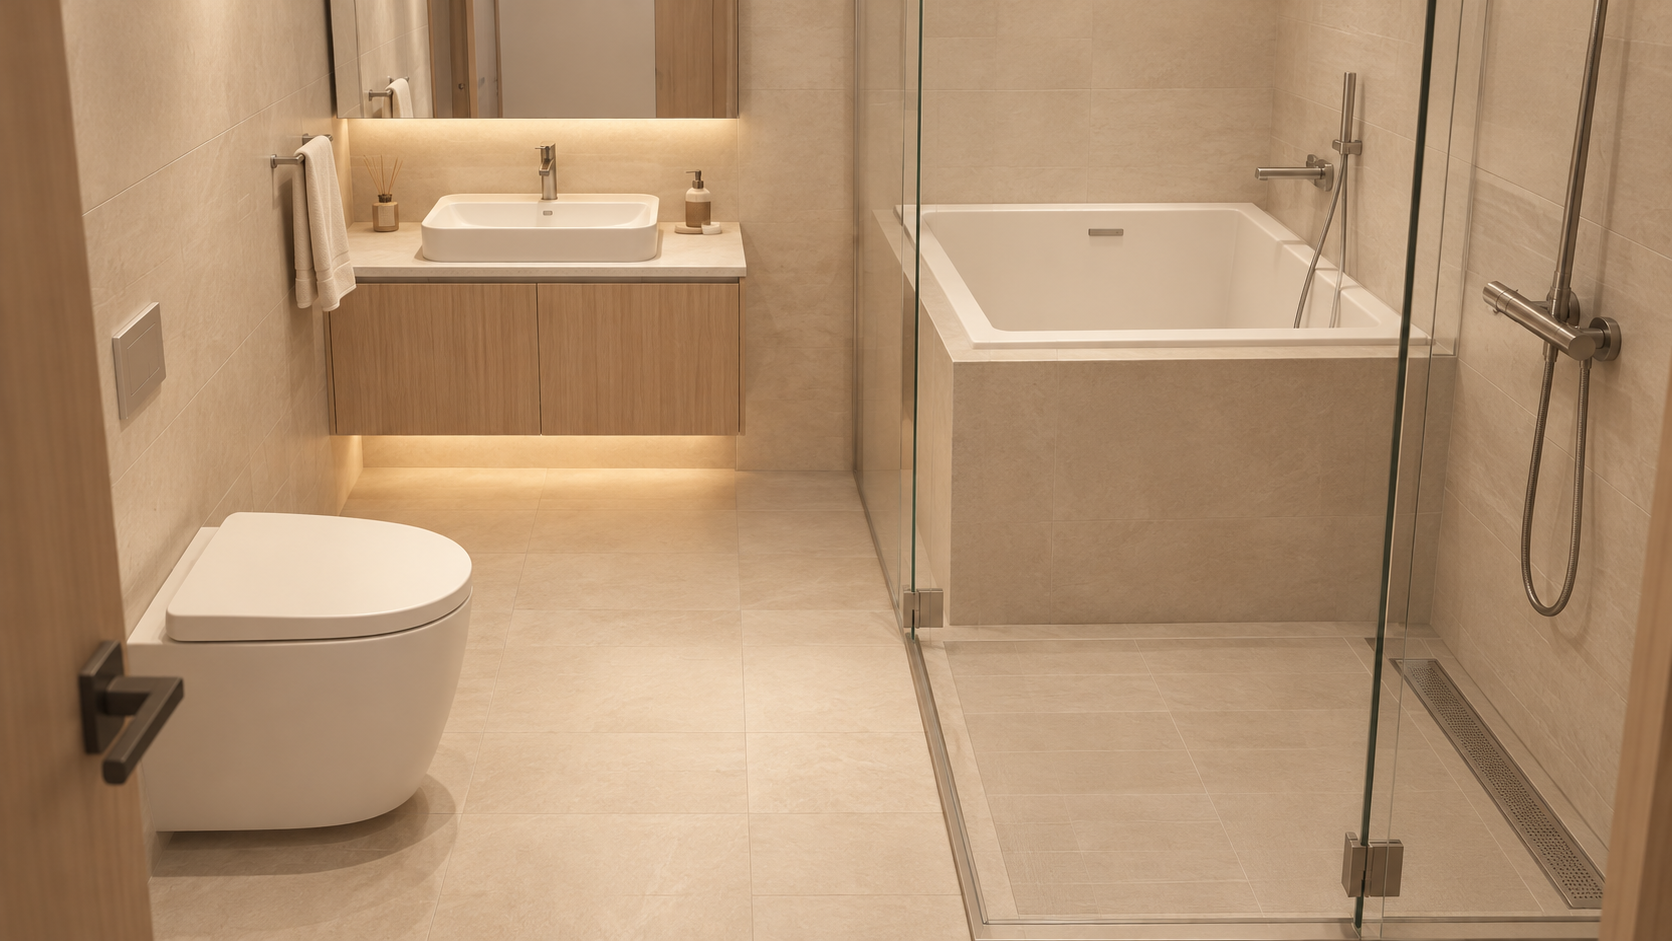
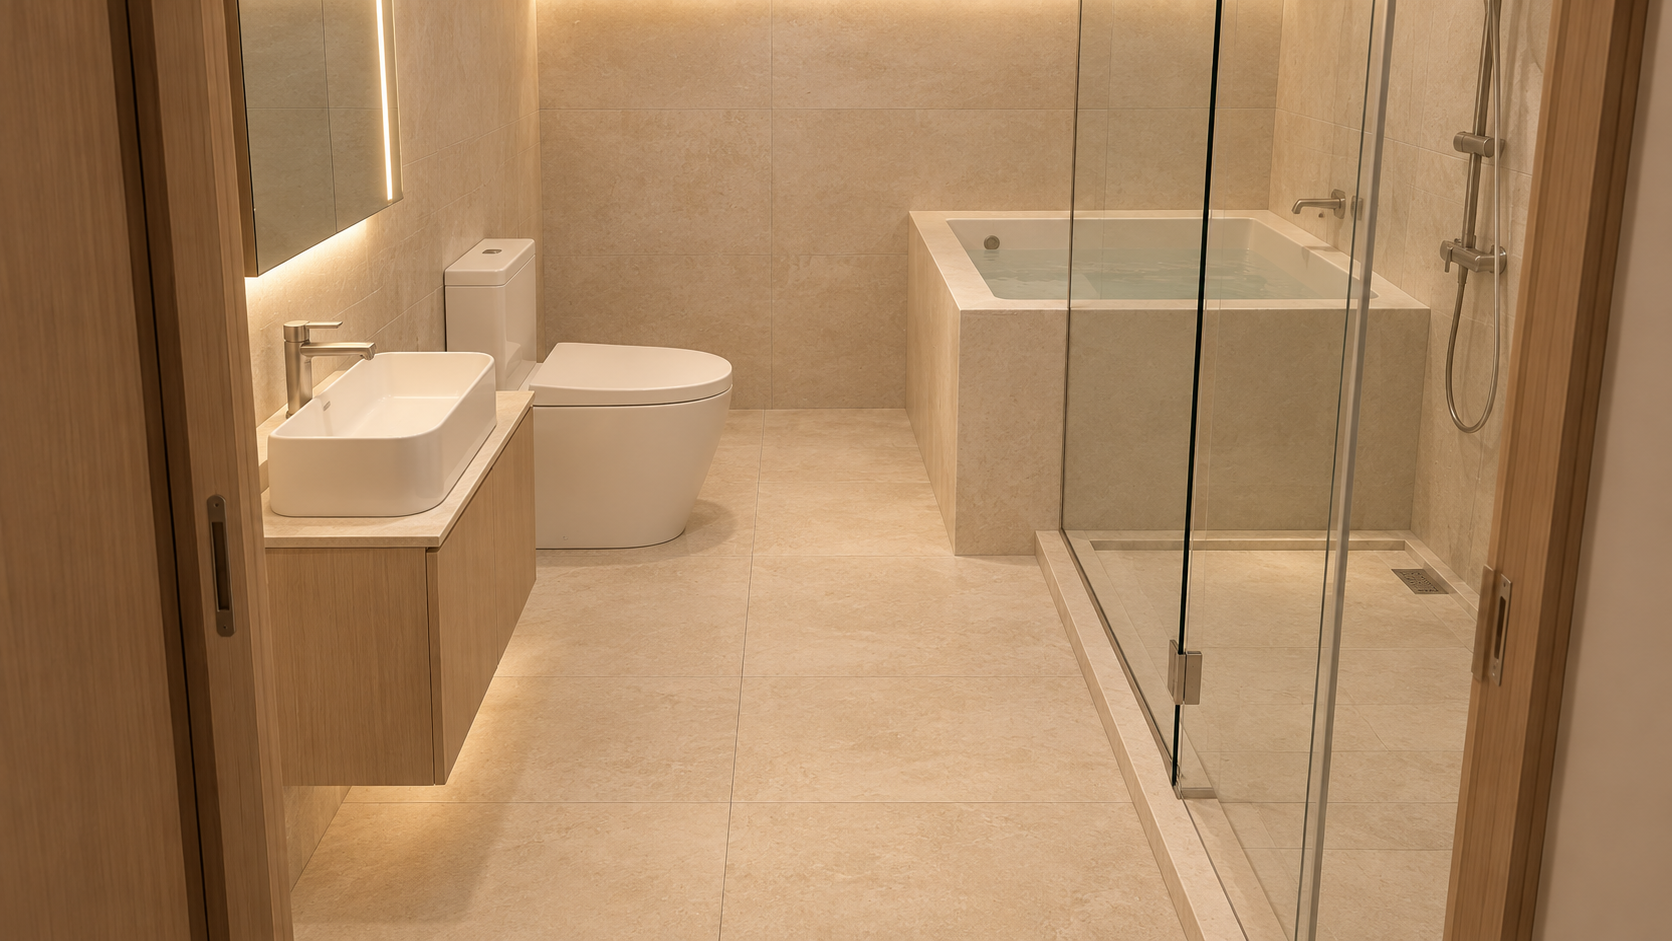
Update kitchen refrigerator and premium room renders

diff --git a/studio.js b/studio.js
@@ -140,7 +140,7 @@ item('高階網布人體工學椅',805,850,66,65,()=>{
   for(const yy of [854,908]){box(823,yy,16,5,4,frame,67);box(828,yy,5,5,15,frame,49);}
   cyl(837,882,5,43,frame,2);for(const [x,y]of [[808,882],[828,852],[858,856],[858,908],[828,912]]){box(Math.min(837,x),Math.min(882,y),Math.abs(x-837)+4,Math.abs(y-882)+4,3,frame,3);cyl(x,y,4,5,dark,0);}
 });
-const designSpecs={style:'warm-japandi-premium',tv:{diagonalInches:77,width:170.4,height:95.9,centerY:863.5},mediaDesk:{width:160,depth:65,wall:'opposite-solid'},chair:{model:'PremiumMesh',width:66,depth:65},living:{sofa:[970,750,90,210],table:[1097,785,72,110],sofaToTable:37,tableToTvWall:51},guestBath:{vanity:[798,318,84,40],toilet:[772,432,66,42],squareTub:[924,310,110,100],shower:[914,420,130,90]},ensuite:{vanity:[241,752,42,62],toilet:[246,837,66,42]},corridorStorage:{nicheDepth:14,nicheWidth:30,cleaningBay:true,livingFace:'closed'}};
+const designSpecs={style:'warm-japandi-premium',tv:{diagonalInches:77,width:170.4,height:95.9,centerY:863.5},mediaDesk:{width:160,depth:65,wall:'opposite-solid'},chair:{model:'PremiumMesh',width:66,depth:65},living:{sofa:[970,750,90,210],table:[1097,785,72,110],sofaToTable:37,tableToTvWall:51},kitchen:{counter:[239,670,235,60],cooktop:[255,680,60,43],sink:[421,700,52,36],fridge:[474,670,72.1,69.5],applianceCabinet:[546.1,670,80,70]},guestBath:{vanity:[772,426,40,84],toilet:[772,318,66,42],vanityFacing:'east',toiletFacing:'east',squareTub:[924,310,110,100],shower:[914,420,130,90]},ensuite:{vanity:[241,752,42,62],toilet:[246,837,66,42]},laundry:{model:'LG WD-S15NDB',sizeCm:[65,95,64.5],rotationDeg:360,rotationSteps:[270,90]},corridorStorage:{nicheDepth:14,nicheWidth:30,cleaningBay:true,livingFace:'closed'}};
 // Shortened to 70 cm so the desk chair has an unobstructed side route.
 item('影音輕量低櫃 70 cm',739,915,30,70,()=>{box(739,915,30,70,60,oak,8);for(const y of [917,951])box(768,y,2,32,54,cream,11);box(739,930,24,40,3,oak,122);cyl(751,940,6,15,cream,125);cyl(753,965,7,15,sage,68)});
 // Cabinet follows the bathroom north wall; door opening x829..909 stays clear.
@@ -178,17 +178,16 @@ function vessel(x,y,w,d,h,z,material){
   const g=new T.BufferGeometry();g.setAttribute('position',new T.Float32BufferAttribute(vertices,3));g.setIndex(indices);g.computeVertexNormals();
   const m=new T.Mesh(g,material);m.material.side=T.DoubleSide;m.position.copy(W(x,y,z));m.castShadow=m.receiveShadow=true;scene.add(m);return m;
 }
-// Guest bathroom: dry fixtures return to their opposite bays, and the toilet faces sideways.
-// Clockwise from the entrance: vanity at upper-left, toilet at lower-left, then a square tub
-// and the separate shower bay on the right, divided by the existing I-BATH glass line.
-item('客用衛浴洗手台／上左',798,318,84,40,()=>{
-  box(798,318,84,40,43,oak,30);box(796,316,88,44,4,ceramic,73);
-  vessel(840,338,52,30,13,77,ceramic);box(863,334,3,3,20,chrome,77);box(851,334,15,3,3,chrome,95);
-  box(798,315,84,1.5,78,mat('#bac5c5',.08,{metalness:.85}),105);
+// Guest bathroom: swap the vanity and toilet, and align both fronts toward the room.
+// Their backs share the left wall; the tub and shower stay on the right.
+item('客用衛浴馬桶／上左面向房間',772,318,66,42,()=>{
+  const base=cyl(805,339,14,28,ceramic,3);base.scale.z=1.2;
+  vessel(805,339,55,42,15,27,ceramic);box(772,318,14,42,65,ceramic,3);box(777,320,6,10,2,chrome,68);
 });
-item('客用衛浴馬桶／下左轉向',772,432,66,42,()=>{
-  const base=cyl(805,453,14,28,ceramic,3);base.scale.z=1.35;
-  vessel(805,453,55,42,15,27,ceramic);box(772,435,14,36,65,ceramic,3);cyl(778,452,2,1,chrome,68);
+item('客用衛浴洗手台／下左面向房間',772,426,40,84,()=>{
+  box(772,426,40,84,43,oak,30);box(770,424,44,88,4,ceramic,73);
+  vessel(792,468,30,52,13,77,ceramic);box(777,464,3,3,18,chrome,79);box(777,464,14,3,3,chrome,95);
+  box(771,426,1.5,84,78,mat('#bac5c5',.08,{metalness:.85}),105);
 });
 item('客用衛浴方形浴缸 110×100',924,310,110,100,()=>{
   vessel(979,360,110,100,55,0,ceramic);cyl(1008,328,3,1,chrome,8);
@@ -235,7 +234,15 @@ const mainDoorHandle=box(1192,500,4,7,24,chrome,104);window.mainDoorHinge.attach
 // Solid oak jambs, head and threshold make the door legible in every view.
 box(1101,501,6,12,242,oak,2);box(1207,501,6,12,242,oak,2);box(1101,501,112,12,6,oak,242);box(1101,501,112,12,4,dark,0);
 });
-item('LG 洗脫烘預留／對面旋轉180度',310,320,75,65,()=>{box(310,320,75,65,85,white);const drum=new T.Mesh(new T.CylinderGeometry(23,23,3,48),black);drum.rotation.x=Math.PI/2;drum.position.copy(W(347.5,387,43));scene.add(drum);box(310,320,75,65,4,oak,90)});
+item('LG WD-S15NDB 洗脫烘／270度再轉90度',315,320.25,65,64.5,()=>{
+  const washer=new T.Group();washer.position.copy(W(347.5,352.5));washer.rotation.y=2*Math.PI;scene.add(washer);
+  const graphite=mat('#30383a',.24,{metalness:.12}),glassDoor=mat('#171d20',.14,{metalness:.22}),display=mat('#a9b8b1',.28,{emissive:0x16201d,emissiveIntensity:.12});
+  const body=new T.Mesh(new T.BoxGeometry(65,95,64.5),graphite);body.position.y=47.5;body.castShadow=body.receiveShadow=true;washer.add(body);
+  const trim=new T.Mesh(new T.TorusGeometry(23,2.5,12,56),mat('#5c6262',.23,{metalness:.55}));trim.position.set(0,47,-32.5);trim.castShadow=true;washer.add(trim);
+  const glassDoorMesh=new T.Mesh(new T.CylinderGeometry(20,20,1.4,48),glassDoor);glassDoorMesh.rotation.x=Math.PI/2;glassDoorMesh.position.set(0,47,-32.2);glassDoorMesh.castShadow=true;washer.add(glassDoorMesh);
+  const control=new T.Mesh(new T.BoxGeometry(29,7,1.5),graphite);control.position.set(0,87,-32);washer.add(control);
+  const screen=new T.Mesh(new T.BoxGeometry(9,3,1),display);screen.position.set(-9,87,-33);washer.add(screen);
+});
 // Balcony guard: slim vertical slats with a continuous top rail.
 item('陽台直條格柵欄',220,300,12,250,()=>{
   const rail=mat('#4a514c',.48,{metalness:.35});
@@ -248,20 +255,20 @@ item('主臥飯店級軟包雙人床／轉向90度',425,890,188,150,()=>{box(425
 item('主臥整牆頂天滑門衣櫥 275 cm',664,765,55,275,()=>{box(664,765,55,275,260,oak);for(let y=767;y<1038;y+=73){box(662,y,2,71,254,oak,3);box(660,y+61,2,2,35,dark,100)}});
 item('次臥飯店級客床 150×188',415,320,150,188,()=>{box(415,320,150,188,12,oak,14);softBox(415,320,150,188,22,linen,24);softBox(415,508,150,10,76,mat('#c2b4a3',.94),16);softBox(430,465,110,35,12,cream,46)});
 item('原圖橫向廚具 235×60',239,670,235,60,()=>{
-  // Cabinet shell and split counter leave an actual recess for the stainless sink.
+  // Keep the existing I-KITCHEN counter while swapping the cooktop and sink bays.
   box(239,670,235,60,7,oak,3);box(239,670,3,60,75,oak,10);box(471,670,3,60,75,oak,10);
   box(239,727,235,3,75,oak,10);
-  for(const [x,w]of [[239,16],[307,167]])box(x,670,w,60,4,cream,85);
-  box(255,670,52,12,4,cream,85);box(255,718,52,12,4,cream,85);
-  vessel(281,700,52,36,20,69,mat('#aeb5b3',.3,{metalness:.8}));
-  const curve=new T.CatmullRomCurve3([W(281,724,89),W(281,724,115),W(281,713,122),W(281,699,114)]);
+  for(const [x,w]of [[239,156],[447,27]])box(x,670,w,60,4,cream,85);
+  box(395,670,52,12,4,cream,85);box(395,718,52,12,4,cream,85);
+  vessel(421,700,52,36,20,69,mat('#aeb5b3',.3,{metalness:.8}));
+  const curve=new T.CatmullRomCurve3([W(421,724,89),W(421,724,115),W(421,713,122),W(421,699,114)]);
   const faucet=new T.Mesh(new T.TubeGeometry(curve,32,1.6,10,false),chrome);faucet.castShadow=true;scene.add(faucet);
-  box(391,680,60,43,2,black,89);for(const x of [404,435])cyl(x,701,9,1,dark,91);
+  box(255,680,60,43,2,black,89);for(const x of [270,300])cyl(x,701,9,1,dark,91);
   for(let x=241;x<470;x+=47){box(x,669,44,2,78,cream,5);box(x+13,667,18,2,1.5,dark,74);}
   box(239,728,235,1,75,cream,90);box(390,714,64,15,9,chrome,186);box(410,718,24,11,65,chrome,195);
 });
-// Panasonic NR-D505XGS: W72.1 × D69.5 × H183.4 cm.  Kept beside the existing counter run.
-item('Panasonic NR-D505XGS 冰箱',474,670,72.1,69.5,()=>{
+// Panasonic NR-D505XGS-W cloud-rock white: W72.1 × D69.5 × H183.4 cm.
+item('Panasonic NR-D505XGS-W 雲岩白四門冰箱',474,670,72.1,69.5,()=>{
   box(474,670,72.1,69.5,183.4,white,2);box(475,668,70.1,2,90,mat('#d8ddd9',.18,{metalness:.18}),4);box(475,668,70.1,2,89,mat('#eef0ea',.18,{metalness:.18}),95);
   box(510,666.5,2,2,179,oak,4);box(475,668,70.1,1,3,oak,92);box(475,668,70.1,1,3,oak,140);box(475,668,70.1,1,3,oak,175);
 });
@@ -281,8 +288,8 @@ configs.media.text='160 × 65 cm升降桌移到對面實牆，椅子面向桌面
 configs.entry.target=[935,560];configs.entry.yaw=.15;configs.entry.pitch=.4;configs.entry.text='隱藏門兩側為完整櫃體：浴室走道側保留 14 cm 淺挖備品格，並整合掃把／拖把的直立收納；面向客廳的立面則是平整封閉櫃門，沒有開孔。右側下方保留掃地機器人高度，上方為置物與封閉收納。隱藏門與櫃體切平、往廁所內開。';
 configs.master={target:[555,900],radius:590,yaw:.5,pitch:.8,title:'床尾整牆衣櫥，頂天收納',sub:'主臥 / 約275 × 55 × 260 cm',text:'維持床頭朝左、150 × 188 cm雙人床。床尾右側牆做 275 cm 長木質滑門衣櫥，延伸至天花板，入口門洞保留；原入口側櫃體移除。床尾至門面約49 cm，偏窄，須現場確認與調整後才能施工；260 cm高度為模型暫定值。'};
 configs.guest={target:[580,430],radius:570,yaw:.7,pitch:.85,title:'清空次臥櫃體，保留彈性',sub:'次臥 / 只保留客床與完整動線',text:'移除原本的衣櫃、書桌與零散櫃體，留下150×188 cm客床及完整門口動線。後續可依實際需求再放入活動式家具，不先以固定櫃體壓縮空間。'};
-configs.laundry.text='LG 15 kg洗脫烘已移到原位置對面並旋轉180度，門面朝室內；仍須確認給排水、插座、散熱與維修空間。';
-configs.kitchen={target:[470,690],radius:620,yaw:-.7,pitch:.7,title:'橫向廚具＋冰箱與頂天電器櫃',sub:'NR-D505XGS / 72.1 × 69.5 × 183.4 cm',text:'保留原圖I-KITCHEN的235 × 60 cm橫向檯面；右端接Panasonic NR-D505XGS冰箱，再接80 cm寬、70 cm深頂天電器櫃，設微波／蒸烤設備凹槽與上方封閉收納。冰箱散熱、插座、門片全開與通道尺寸仍須以現場及原廠安裝圖複核。'};
+configs.laundry.text='LG WD-S15NDB 15公斤洗脫烘（65 × 64.5 × 95 cm）放在既有陽台位置，依270度後再轉90度設定為360度；門面朝室內。現場仍需確認開門深度、給排水與插座。';
+configs.kitchen={target:[470,690],radius:620,yaw:-.7,pitch:.7,title:'橫向廚具＋冰箱與頂天電器櫃',sub:'235 × 60 cm 檯面 / Panasonic NR-D505XGS-W 雲岩白',text:'保留原圖 I-KITCHEN 235 × 60 cm 橫向檯面，瓦斯爐改在左端、水槽移到右端，接續 Panasonic NR-D505XGS-W 雲岩白四門冰箱（72.1 × 69.5 × 183.4 cm）與 80 × 70 cm 頂天電器櫃；爐、水槽、冰箱依同一檯面動線排列。冰箱散熱、插座、門片全開與通道尺寸仍須以現場及原廠安裝圖複核。'};
 for(const [name,label]of [['master','06　主臥'],['guest','07　次臥'],['kitchen','08　廚房']]){const b=document.createElement('button');b.dataset.room=name;b.textContent=label;document.querySelector('.rooms').append(b)}
 let selected='all',yaw=.6,pitch=.8,radius=1650,target=W(750,690,30);function select(name){selected=name;const c=configs[name];yaw=c.yaw;pitch=c.pitch;radius=c.radius;target=W(...c.target,35);document.querySelector('#title').textContent=c.title;document.querySelector('#description').textContent=c.text;document.querySelector('#subtitle').textContent=c.sub;document.querySelector('#viewname').textContent=c.title;document.querySelectorAll('[data-room]').forEach(b=>b.classList.toggle('active',b.dataset.room===name))}document.querySelectorAll('[data-room]').forEach(b=>b.onclick=()=>select(b.dataset.room));document.querySelector('#reset').onclick=()=>select(selected);
 let walking=false,compare=false,walkX=1150,walkY=600,walkYaw=0,lookPitch=0,drag=null;

diff --git a/studio-home.js b/studio-home.js
@@ -14,7 +14,7 @@
   const roomPicker=document.createElement('select');roomPicker.className='room-picker';roomPicker.setAttribute('aria-label','前往房間');
   document.querySelector('.workspace').insertBefore(roomPicker,controls);
   // Add a direct bathroom stop and keep all room choices available on small screens.
-  configs.bath={target:[887,433],radius:420,yaw:.7,pitch:.7,title:'客用四件式衛浴',sub:'洗手台・馬桶・方形浴缸・乾濕分離',text:'乾區已再次互換：上左為洗手台、下左為馬桶；馬桶轉向側牆。右上保留 110 × 100 cm 方形浴缸，右下為獨立淋浴區。玻璃線沿 I-BATH 分隔，尺寸仍須現場放樣複核。'};
+  configs.bath={target:[887,433],radius:420,yaw:.7,pitch:.7,title:'客用四件式衛浴',sub:'洗手台・馬桶・方形浴缸・乾濕分離',text:'洗手台與馬桶已交換：上左為馬桶、下左為洗手台，兩者都朝向房間中央；右上保留 110 × 100 cm 方形浴缸，右下為獨立淋浴區。玻璃線沿 I-BATH 分隔，尺寸仍須現場放樣複核。'};
   configs.ensuite={target:[310,855],radius:310,yaw:-1.9,pitch:.85,title:'主臥衛浴',sub:'洗手台・馬桶・淋浴・高窗',text:'入口側為洗手台、淋浴前為馬桶；馬桶已轉向側牆。左側外牆補上與次臥同比例的 150 cm 窗台高窗，並重建窗洞下牆、過梁、窗框與玻璃；保留末端乾濕分離淋浴區。尺寸為設計示意。'};stops.ensuite=[339,825,Math.PI];
   stops.bath=[880,470,-2.92];stops.living=[1175,718,-.37];stops.master=[639,825,-.75];stops.media=[760,805,.88];stops.kitchen=[490,604,-.92];stops.laundry=[292,478,2.85];
   const bathButton=document.createElement('button');bathButton.dataset.room='bath';bathButton.textContent='09　浴室';bathButton.onclick=()=>{select('bath');if(walking){[walkX,walkY,walkYaw]=stops.bath;lookPitch=-.48;}};document.querySelector('.rooms').append(bathButton);
@@ -112,11 +112,11 @@
   const capture=document.createElement('button');capture.textContent='儲存 3D 視角';capture.title='將目前即時渲染儲存為 PNG';capture.onclick=()=>{const link=document.createElement('a');link.download=`B1-${selected}-3d-render.png`;link.href=canvas.toDataURL('image/png');link.click();};document.querySelector('.toolbar').append(capture);
   // Curated photoreal render gallery: these are high-detail design views, while
   // the canvas above remains the measured interactive model.
-  const premiumRenders={living:['客廳','renders/living-premium.png'],kitchen:['餐廚','renders/kitchen-premium.png?v=20261024-layout2'],master:['主臥','renders/master-premium.png?v=20261024-layout2'],media:['多功能室','renders/media-premium.png?v=20261024-layout2'],guest:['次臥','renders/guest-premium.png?v=20261024-layout2'],bath:['客用衛浴','renders/bath-premium.png?v=20261024-layout2'],ensuite:['主臥衛浴','renders/ensuite-premium.png?v=20261024-layout2'],entry:['玄關','renders/entry-premium.png?v=20261024-layout2'],laundry:['洗衣陽台','renders/laundry-premium.png?v=20261024-layout2']};
+  const premiumRenders={living:['客廳','renders/living-premium.png'],kitchen:['餐廚','renders/kitchen-premium.png?v=20261024-layout4'],master:['主臥','renders/master-premium.png?v=20261024-layout2'],media:['多功能室','renders/media-premium.png?v=20261024-layout2'],guest:['次臥','renders/guest-premium.png?v=20261024-layout2'],bath:['客用衛浴','renders/bath-premium.png?v=20261024-layout3'],ensuite:['主臥衛浴','renders/ensuite-premium.png?v=20261024-layout2'],laundry:['洗衣陽台','renders/laundry-premium.png?v=20261024-layout3']};
   const gallery=document.createElement('section');gallery.className='render-gallery';gallery.innerHTML='<div class="render-gallery__head"><div><p class="overline">PREMIUM RENDER COLLECTION</p><b>高級空間渲染</b></div><label>選擇空間 <select aria-label="選擇高級渲染空間"></select></label></div><figure><img alt="高級室內設計渲染"><figcaption></figcaption></figure>';
   const gallerySelect=gallery.querySelector('select'),galleryImage=gallery.querySelector('img'),galleryCaption=gallery.querySelector('figcaption');
   for(const [key,[label]] of Object.entries(premiumRenders)){const option=document.createElement('option');option.value=key;option.textContent=label;gallerySelect.append(option);}
-  const showPremiumRender=name=>{const entry=premiumRenders[name]||premiumRenders.living;gallerySelect.value=premiumRenders[name]?name:'living';galleryImage.src=entry[1];galleryImage.alt=`${entry[0]}高級室內設計渲染`;galleryCaption.textContent=`${entry[0]} · 暖日式／北歐質感 · 材質與燈光提案`;};
+  const showPremiumRender=name=>{const key=name==='all'?'living':name,entry=premiumRenders[key];if(!entry){gallery.hidden=true;return;}gallery.hidden=false;gallerySelect.value=key;galleryImage.src=entry[1];galleryImage.alt=`${entry[0]}高級室內設計渲染`;galleryCaption.textContent=`${entry[0]} · 依平面配置與 3D 尺寸重整`;};
   gallerySelect.onchange=()=>{select(gallerySelect.value);document.querySelector('[data-mode="3d"]').click();gallery.scrollIntoView({behavior:'smooth',block:'nearest'});};
   const gallerySelectBefore=select;select=function(name){gallerySelectBefore(name);showPremiumRender(name);};showPremiumRender(selected);
   document.querySelector('.workspace').append(gallery);

diff --git a/UPGRADE.md b/UPGRADE.md
@@ -83,6 +83,12 @@ iPhone/Android hardware validation. Publish existing Pages repo and refresh loca
 - The toolbar and first-person proximity prompt can both open and close it; it remains outside the fixed-furniture collider so the entrance stays passable.
 
 ## Premium render gallery
-- Add nine curated, 16:9 photoreal design renders for the living room, kitchen, bedrooms, media room, both bathrooms, entry and laundry balcony.
+- Add eight curated, 16:9 photoreal design renders for the living room, kitchen, bedrooms, media room, both bathrooms and laundry balcony.
 - The website provides a space selector; choosing a view also selects the matching measured 3D room. Render images are a presentation layer, not a construction drawing.
-- Regenerate the eight non-living-room views against the B1 plan and existing 3D room layout: room footprint, furniture orientation, window position, appliance or fixture sizes, entry clearance, and balcony railing are constrained to their modeled arrangements.
+- Regenerate the seven non-living-room views against the B1 plan and existing 3D room layout: room footprint, furniture orientation, window position, appliance or fixture sizes, and balcony railing are constrained to their modeled arrangements.
+
+## Revised kitchen, guest bath, and laundry
+- Remove the entry render from the gallery. Move the kitchen cooktop to the left end of the existing 235 x 60 cm counter and the sink to the right end; preserve refrigerator and appliance cabinet positions.
+- Swap the guest bathroom toilet and vanity. Place both against the left wall facing the room center; keep the tub and shower in their existing right-side bays.
+- Replace the laundry placeholder with LG WD-S15NDB geometry at 65 x 64.5 x 95 cm. Set its final orientation to 360 degrees (270 + 90), equivalent to the original inward-facing direction, and update the high-resolution balcony render.
+- Kitchen render and 3D specification use the Panasonic NR-D505XGS-W cloud-rock white four-door refrigerator (72.1 × 69.5 × 183.4 cm), with the cooktop on the left and sink on the right.
